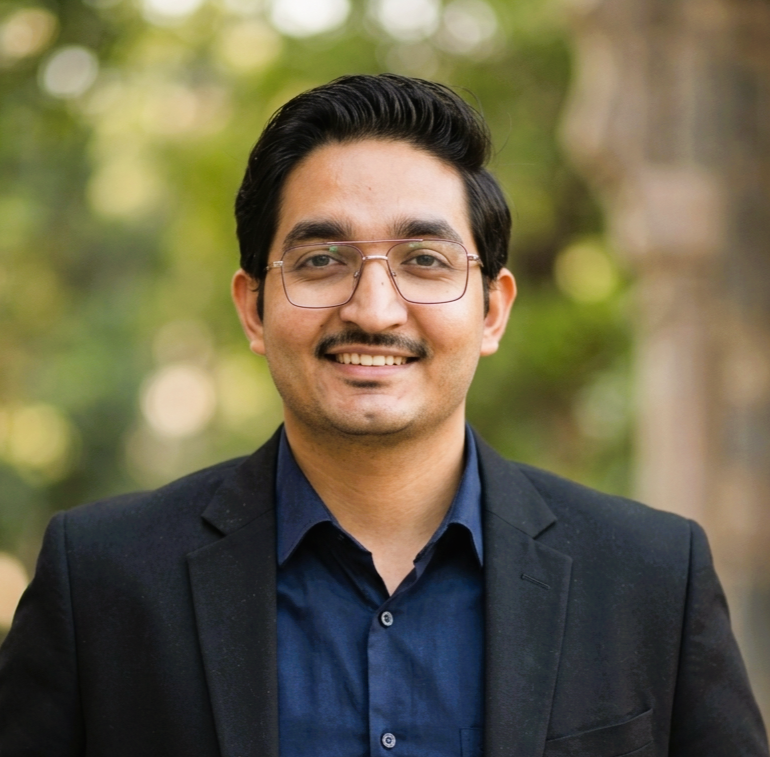
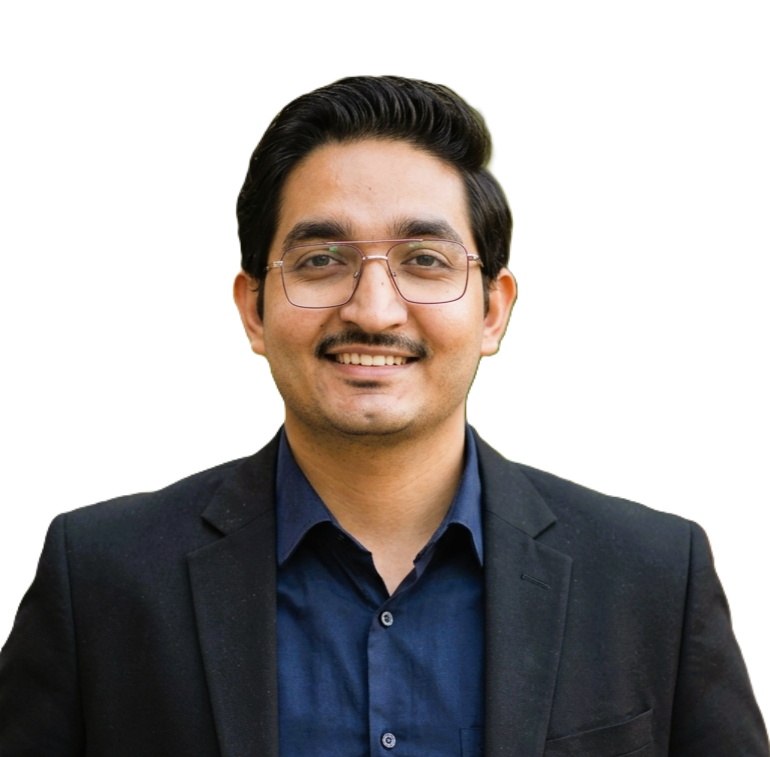
updated picks

diff --git a/index.html b/index.html
@@ -214,7 +214,7 @@
 								<div class="row">
 									<div class="col-sm-6 col-md-5">
 									  <div class="about-img">
-										<img src="images/about-me.jpg" class="img-fluid rounded b-shadow-a" alt="">
+										<img src="images/about-me.png" class="img-fluid rounded b-shadow-a" alt="">
 									  </div>
 									</div>
 									<!-- Details next to profile image -->
